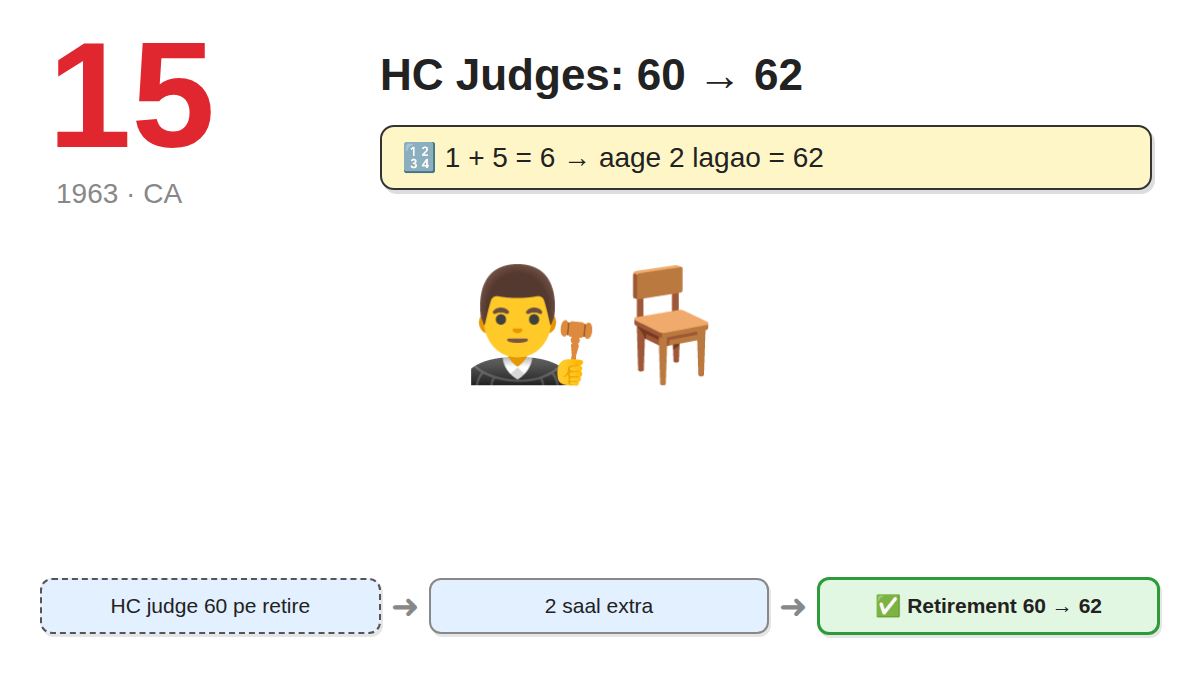
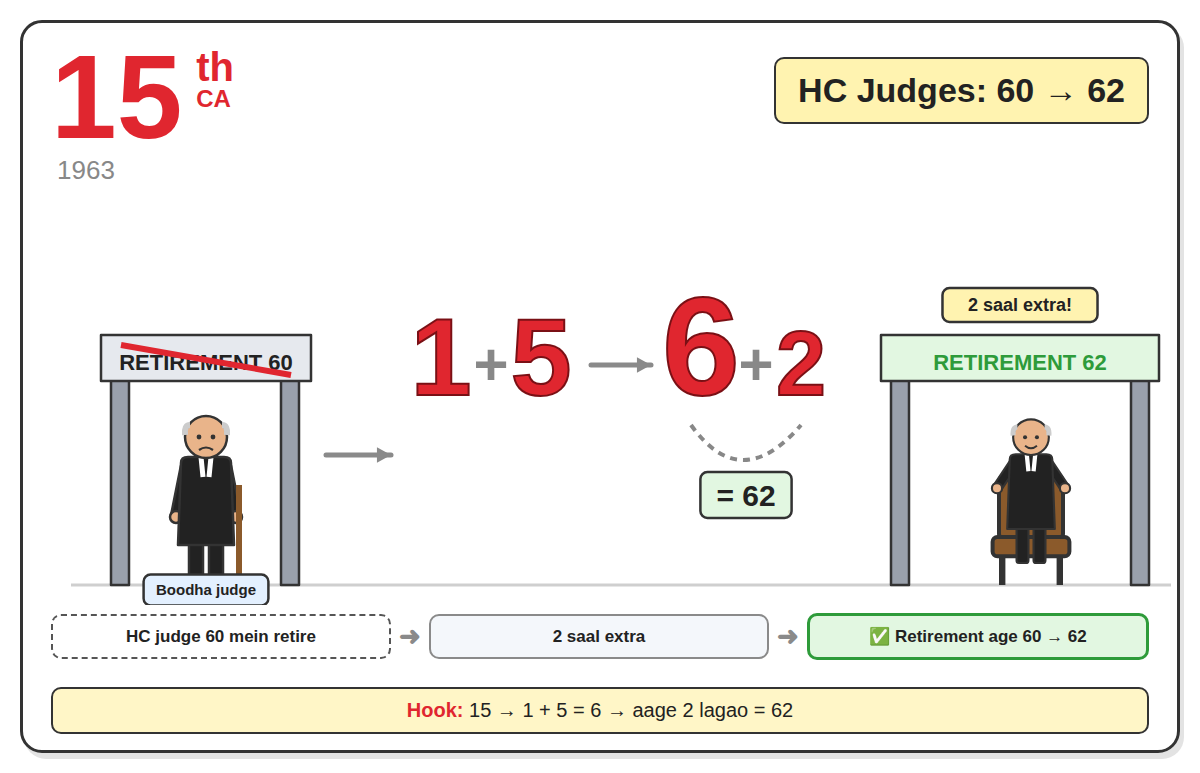
Redraw Part 1 amendment cards as illustrated scenes
Each card now has a hand-drawn flat-vector scene, red number with
ordinal, title tag, full chain and hook strip, plus a combined
part-1-all.png overview. Generator scripts in tools/cards.

Claude-Session: https://claude.ai/code/session_019MwLUPmBiyCbm1QLTFe7kp

diff --git a/tools/cards/cards.js b/tools/cards/cards.js
@@ -1,0 +1,220 @@
+const L=require('./lib.js');const {O,T,lab,RN,arrow,person,book,vbook,shelf,calendar,lock,house,tiranga,pakflag,scissors,gavel,paper,parliament,chair,mountain,ground,heart,shield,xmark,emoji,bubble}=L;
+const C=[];
+// 1st
+C.push({n:'1',suf:'st',y:'1951',title:'9th Schedule',tc:'#D9ECFF',
+hook:'1st = pehla bachcha, 9 mahine → 9th Schedule',
+chain:['Courts land reform kanoon kaat rahe the','31A, 31B se bachao','Kanoon ki tijori = 9th Schedule','15(4) backward classes'],res:'19(1)(a) pe nayi restrictions',
+svg:`${ground()}
+${person(130,390,{judge:1,wig:1,ra:[40,-10],la:[30,10]})}
+${paper(185,215,90,110,'Land Law',15,-8)}${scissors(205,262,1,-20)}
+<path d="M275 300 l12 20 l-8 8" fill="none" stroke="#999" stroke-width="2.5" stroke-dasharray="5 4"/>
+${lab(140,170,'Court',`#E3F0FF`)}
+${arrow(310,260,390,260)}
+<path d="M430 330 Q560 420 690 330" fill="#F7D9A8" ${O}/><line x1="440" y1="390" x2="460" y2="345" stroke="#8B5A2B" stroke-width="6"/><line x1="680" y1="390" x2="660" y2="345" stroke="#8B5A2B" stroke-width="6"/>
+<rect x="470" y="300" width="180" height="40" rx="18" fill="#BFE3F7" ${O}/>
+${RN(560,325,'1',200)}<circle cx="585" cy="150" r="26" fill="#F2C29B" ${O}/><circle cx="577" cy="148" r="3" fill="#333"/><circle cx="593" cy="148" r="3" fill="#333"/><path d="M578 160 q7 6 14 0" stroke="#333" stroke-width="2.5" fill="none"/><path d="M575 126 q10 -10 18 0" stroke="#3b2a20" stroke-width="3" fill="none"/>
+${lab(560,385,'Naya bachcha','#E2F7E1',17)}
+<line x1="560" y1="20" x2="660" y2="40" stroke="#999" stroke-width="2"/>${calendar(620,30,90,90,'MAHINE','9',46)}
+${arrow(720,260,790,260)}
+<rect x="810" y="140" width="190" height="230" rx="10" fill="#C9CED6" ${O}/><rect x="826" y="156" width="158" height="198" rx="6" fill="#E6E9EE" ${O}/>
+${paper(838,200,60,80,'Land Laws',11,-4)}${paper(902,195,60,80,'Land Laws',11,5)}
+<path d="M1000 160 L1080 130 L1080 380 L1000 370Z" fill="#B7BDC7" ${O}/><circle cx="1050" cy="250" r="20" fill="#9aa1ac" ${O}/><line x1="1050" y1="232" x2="1050" y2="268" stroke="#333" stroke-width="3"/>
+${lab(905,120,'9th Schedule','#FFF3B0',22)}
+<rect x="840" y="300" width="22" height="40" rx="10" fill="#777" ${O}/><line x1="851" y1="340" x2="851" y2="365" stroke="#333" stroke-width="3"/>${lock(895,345,0.5)}${lab(930,300,'19(1)(a)','#FDE2E4',14)}`});
+// 7th
+C.push({n:'7',suf:'th',y:'1956',title:'States Reorganisation',tc:'#FDE2E4',
+hook:'7 = saat phere → States ki nayi shaadi, bhasha ke rishte se',
+chain:['Bhasha andolan','States linguistic basis pe','Part A/B/C/D khatam → 14 States + 6 UTs','Common HC (231), 258A'],res:'350A mother tongue padhai, 350B special officer',
+svg:`${ground()}
+${[0,1,2,3,4,5,6].map(i=>{const a=i/7*Math.PI*2-Math.PI/2;return `<circle cx="${480+Math.cos(a)*190}" cy="${225+Math.sin(a)*150}" r="16" fill="#FDE2E4" stroke="#E0262F" stroke-width="3"/>${T(480+Math.cos(a)*190,232+Math.sin(a)*150,String(i+1),{fs:16,fill:'#E0262F'})}`}).join('')}
+<ellipse cx="480" cy="225" rx="190" ry="150" fill="none" stroke="#E0262F" stroke-width="2.5" stroke-dasharray="8 8"/>
+<path d="M330 120 L630 120 L600 80 L360 80Z" fill="#F7A54A" ${O}/>${[340,410,550,620].map(x=>`<rect x="${x-6}" y="120" width="12" height="250" fill="#F5C518" ${O}/>`).join('')}
+${[[400,300,'#9CC5A1','अ'],[465,300,'#F7D9A8','ગ'],[505,300,'#BFE3F7','த'],[570,300,'#D7C6F2','ಕ']].map(([x,y,f,c])=>`<path d="M${x-26} ${y+60} q-6 -50 10 -70 q20 -12 30 4 q14 30 4 66z" fill="${f}" ${O}/>${L.bubble(x,y-60,c)}`).join('')}
+<line x1="465" y1="330" x2="505" y2="330" stroke="#E0262F" stroke-width="4"/>
+${RN(480,110,'7',80)}
+${lab(480,40,'Saat phere: bhasha ka rishta','#FFF3B0',18)}
+${[['A',60],['B',120],['C',75],['D',135]].map(([t,x],i)=>`<g transform="rotate(${[-15,10,-25,20][i]} ${x} ${i<2?345:290})"><rect x="${x-25}" y="${(i<2?345:290)-25}" width="50" height="50" fill="#D8C3A5" ${O}/>${T(x,(i<2?345:290)+9,t,{fs:24})}<path d="M${x-25} ${(i<2?345:290)-5} l14 6 l10 -10 l12 8" stroke="#333" stroke-width="2" fill="none"/></g>`).join('')}
+${lab(100,230,'Part A/B/C/D khatam','#E3F0FF',16)}
+${xmark(100,300,1.2)}
+<path d="M760 360 q-20 -80 30 -90 q40 0 30 90z" fill="#9CC5A1" ${O}/>${T(790,330,'State 1',{fs:14})}
+<path d="M1050 360 q-20 -90 30 -90 q40 0 20 90z" fill="#F7D9A8" ${O}/>${T(1075,330,'State 2',{fs:14})}
+<path d="M820 300 Q920 220 1040 300" fill="none" stroke="#8B5A2B" stroke-width="8"/>
+<rect x="880" y="200" width="90" height="70" fill="#E3F0FF" ${O}/><path d="M870 200 L925 165 L980 200Z" fill="#B7BDC7" ${O}/>${[890,910,930,950].map(x=>`<rect x="${x}" y="215" width="8" height="45" fill="#fff" ${O}/>`).join('')}
+${lab(925,140,'Common HC (231)','#E2F7E1',16)}
+${lab(925,385,'14 States + 6 UTs','#FFF3B0',17)}
+${lab(925,60,'350A / 350B','#FDE2E4',17)}`});
+// 9th
+C.push({n:'9',suf:'th',y:'1960',title:'Berubari',tc:'#E2F7E1',
+hook:'9 = "nau-do-gyarah" → Berubari chala gaya',
+chain:['Berubari case','SC: zameen dene ke liye CA chahiye','9th CA'],res:'Berubari Pakistan ko transfer',
+svg:`${ground(380)}
+<path d="M80 380 L1080 380" stroke="#C9B48A" stroke-width="18"/>${[150,300,450,600,750].map(x=>`<path d="M${x} 400 q20 -12 40 0" stroke="#bbb" stroke-width="3" fill="none"/>`).join('')}
+${RN(250,330,'9',170)}<line x1="235" y1="335" x2="215" y2="378" stroke="#7a1015" stroke-width="8"/><line x1="265" y1="335" x2="290" y2="376" stroke="#7a1015" stroke-width="8"/>
+${[[175,240],[165,270],[170,300]].map(([x,y])=>`<line x1="${x}" y1="${y}" x2="${x-50}" y2="${y}" stroke="#bbb" stroke-width="4"/>`).join('')}
+<path d="M430 300 q-20 -60 40 -80 q70 -20 110 10 q40 40 0 70 q-70 30 -150 0z" fill="#B9D88A" ${O}/><path d="M460 270 q30 -20 60 -10 M490 300 q20 -10 50 0" stroke="#7da35a" stroke-width="3" fill="none"/>
+<line x1="480" y1="305" x2="455" y2="378" stroke="#333" stroke-width="7"/><line x1="540" y1="305" x2="575" y2="374" stroke="#333" stroke-width="7"/>
+<circle cx="555" cy="240" r="4" fill="#333"/><circle cx="572" cy="243" r="4" fill="#333"/>
+${lab(505,200,'Berubari','#FFF3B0',20)}
+${[[400,250],[390,280]].map(([x,y])=>`<line x1="${x}" y1="${y}" x2="${x-60}" y2="${y}" stroke="#bbb" stroke-width="4"/>`).join('')}
+${T(250,120,'nau-do-gyarah!',{fs:24,fill:'#E0262F'})}
+${arrow(640,300,800,300)}
+<rect x="830" y="190" width="24" height="190" fill="#999" ${O}/><rect x="1016" y="190" width="24" height="190" fill="#999" ${O}/><rect x="820" y="170" width="230" height="30" fill="#bbb" ${O}/>${T(935,192,'BORDER',{fs:18})}
+${[0,1,2,3,4,5].map(i=>`<line x1="${870+i*28}" y1="200" x2="${870+i*28}" y2="380" stroke="#aaa" stroke-width="4"/>`).join('')}
+${pakflag(1060,180,1)}${lab(935,400-14,'Pakistan (East)','#E2F7E1',16)}
+${person(700,170,{judge:1,wig:1,s:0.75,ra:[30,-50],la:[-30,-50]})}
+<rect x="610" y="20" width="180" height="56" rx="6" fill="#fff" ${O}/>${T(700,57,'CA needed',{fs:26,fill:'#E0262F'})}${lab(700,180,'Supreme Court','#E3F0FF',15)}`});
+// 15th
+C.push({n:'15',suf:'th',y:'1963',title:'HC Judges: 60 → 62',tc:'#FFF3B0',
+hook:'15 → 1 + 5 = 6 → aage 2 lagao = 62',
+chain:['HC judge 60 mein retire','2 saal extra'],res:'Retirement age 60 → 62',
+svg:`${ground()}
+<rect x="60" y="180" width="18" height="210" fill="#9aa1ac" ${O}/><rect x="230" y="180" width="18" height="210" fill="#9aa1ac" ${O}/><rect x="50" y="140" width="210" height="46" fill="#E6E9EE" ${O}/>${T(155,175,'RETIREMENT  60',{fs:22})}
+<line x1="70" y1="150" x2="240" y2="180" stroke="#E0262F" stroke-width="6"/>
+${person(155,390,{judge:1,bald:1,happy:false,la:[-10,50],ra:[10,50]})}<rect x="185" y="290" width="6" height="100" fill="#8B5A2B"/>${lab(155,415-20,'Boodha judge','#E3F0FF',15)}
+${arrow(275,260,340,260)}
+${RN(390,200,'1',110)}${T(440,190,'+',{fs:60,fill:'#888'})}${RN(490,200,'5',110)}
+${arrow(540,170,600,170)}${RN(650,200,'6',140)}${T(705,190,'+',{fs:60,fill:'#888'})}${RN(750,200,'2',90)}
+<path d="M640 230 Q690 300 750 230" fill="none" stroke="#888" stroke-width="4" stroke-dasharray="7 6"/>${lab(695,300,'= 62','#E2F7E1',30)}
+<rect x="840" y="180" width="18" height="210" fill="#9aa1ac" ${O}/><rect x="1080" y="180" width="18" height="210" fill="#9aa1ac" ${O}/><rect x="830" y="140" width="278" height="46" fill="#E2F7E1" ${O}/>${T(969,175,'RETIREMENT  62',{fs:22,fill:'#2E9B3A'})}
+${chair(980,390,1.6,'#8B5A2B')}${person(980,368,{judge:1,bald:1,s:0.85,la:[-20,30],ra:[20,30]})}
+${lab(969,110,'2 saal extra!','#FFF3B0',18)}`});
+// 21st
+C.push({n:'21',suf:'st',y:'1967',title:'Sindhi',tc:'#E3F0FF',
+hook:'21 ka 2 dikhta hai S jaisa → Sindhi',
+chain:['Sindhi bhasha list se bahar'],res:'8th Schedule mein (15th bhasha)',
+svg:`${ground()}
+<path d="M150 120 C150 40 300 40 300 120 C300 190 140 250 140 330 L310 330" fill="none" stroke="#7a1015" stroke-width="44" stroke-linecap="round" stroke-linejoin="round"/>
+<path d="M150 120 C150 40 300 40 300 120 C300 190 140 250 140 330 L310 330" fill="none" stroke="#E0262F" stroke-width="38" stroke-linecap="round" stroke-linejoin="round"/>
+${[[200,70],[290,150],[200,250],[230,330]].map(([x,y])=>`<circle cx="${x}" cy="${y}" r="7" fill="#F49AA0"/>`).join('')}
+<circle cx="320" cy="320" r="5" fill="#fff"/><circle cx="321" cy="320" r="2.5" fill="#000"/><path d="M332 335 l18 4 l6 -6 m-6 6 l6 6" stroke="#E0262F" stroke-width="3" fill="none"/>
+${RN(380,140,'1',150)}${lab(230,385,'2 = S = Sindhi','#FFF3B0',20)}
+<path d="M430 80 C500 140 420 220 500 280 S 480 360 560 400" fill="none" stroke="#7FB3E0" stroke-width="40" stroke-linecap="round"/><path d="M430 80 C500 140 420 220 500 280 S 480 360 560 400" fill="none" stroke="#BFE3F7" stroke-width="28" stroke-linecap="round"/>${lab(560,120,'Sindhu nadi','#E3F0FF',16)}
+${shelf(660,90,420,280,'8th Schedule')}<line x1="670" y1="230" x2="1070" y2="230" stroke="#B5793F" stroke-width="8"/>
+${['#E07B7B','#7FB3E0','#9CC5A1','#F5C518','#D7C6F2','#F7A54A','#7FB3E0','#E07B7B','#9CC5A1','#F5C518','#D7C6F2','#F7A54A','#E07B7B','#7FB3E0'].map((f,i)=>i<7?vbook(680+i*36,120,30,105,f):vbook(680+(i-7)*36,250,30,108,f)).join('')}
+${book(950,255,40,120,'#E0262F','',14,-25)}${T(972,320,'Sindhi',{fs:16,fill:'#fff',rot:-115})}
+${arrow(1060,190,1000,240)}${lab(1000,400-10,'15th bhasha','#E2F7E1',17)}`});
+// 24th
+C.push({n:'24',suf:'th',y:'1971',title:'FRs bhi amend ho sakte',tc:'#FFF3B0',
+hook:'24 = 24×7 power → Parliament kabhi bhi, kuch bhi amend kar sakti hai. 1971 tikdi: 24 Power → 25 Property → 26 Purse',
+chain:['Golaknath 1967: FRs amend nahi ho sakte','24th: any part incl. FRs'],res:'President ko assent dena hi padega',
+svg:`${ground()}
+${parliament(330,390,1.5)}
+<rect x="230" y="70" width="200" height="80" rx="10" fill="#222" ${O}/>${T(330,130,'24×7',{fs:52,fill:'#FF3B3B',extra:'font-family="Courier New, monospace"'})}<line x1="330" y1="150" x2="330" y2="185" stroke="#555" stroke-width="5"/>
+${lab(330,40,'Kabhi bhi, kuch bhi amend','#FFF3B0',17)}
+${book(560,250,170,120,'#7FB3E0','',14,0)}${T(650,295,'Fundamental',{fs:18})}${T(650,320,'Rights',{fs:18})}
+<g transform="rotate(35 610 230)"><rect x="595" y="150" width="18" height="100" rx="4" fill="#E0262F" ${O}/><path d="M595 250 L604 275 L613 250Z" fill="#333"/></g>
+<path d="M545 220 Q520 220 510 250" fill="none" stroke="#333" stroke-width="3" stroke-dasharray="4 4"/>
+${person(870,390,{shirt:'#F7F2E8',la:[-30,-10],ra:[30,30]})}${lab(870,210,'President','#E3F0FF',16)}
+<rect x="780" y="290" width="40" height="22" fill="#8B5A2B" ${O}/><rect x="790" y="262" width="20" height="30" fill="#8B5A2B" ${O}/>
+<rect x="740" y="325" width="110" height="50" fill="#fff" ${O}/>${T(795,358,'ASSENT ✓',{fs:20,fill:'#2E9B3A'})}
+${gavel(1030,375,0.8,80,'#bbb')}${lab(1030,310,'Golaknath','#eee',16)}<path d="M1000 260 l8 -16 M1030 255 l0 -18 M1060 260 l-8 -16" stroke="#aaa" stroke-width="3"/>
+${lab(330,385-0,'Parliament','#E2F7E1',16)}`});
+// 25th
+C.push({n:'25',suf:'th',y:'1971',title:'Property pe kainchi, Art 31C',tc:'#E2F7E1',
+hook:'1971 tikdi ka 2nd P = Property',
+chain:['Property compensation pe case','Right to property curtailed'],res:'Art 31C: DPSP laws ko FR challenge se bachao',
+svg:`${ground()}
+${RN(130,260,'25',150)}
+${house(400,390,2.2)}
+<path d="M600 390 q-60 0 -55 -60 q5 -60 75 -60 q70 0 75 60 q5 60 -55 60z" fill="#C9A15E" ${O}/><path d="M590 272 q30 -20 60 0" fill="none" stroke="#333" stroke-width="5"/>${T(620,345,'₹',{fs:56,fill:'#6b4b1d'})}${lab(620,240,'Compensation','#FFF3B0',15)}
+${scissors(700,250,2.2,160)}
+${[[690,370],[700,380]].map(([x,y])=>`<circle cx="${x}" cy="${y}" r="9" fill="#F5C518" ${O}/>`).join('')}
+${shield(950,190,2,'#7FB3E0')}${T(950,145,'31C',{fs:44,fill:'#1f4e79'})}${book(905,175,90,70,'#F5C518','DPSP',20)}
+${lab(950,330,'DPSP laws safe','#E2F7E1',17)}
+${arrow(470,140,860,170)}${lab(660,110,'FR challenge ✗','#FDE2E4',16)}`});
+// 26th
+C.push({n:'26',suf:'th',y:'1971',title:'Privy purses khatam',tc:'#FDE2E4',
+hook:'26 = 26 January (Republic) → Republic mein raja ka khaas paisa kyun? → Purse khatam',
+chain:['Rajaon ko privy purse','Republic mein sab barabar'],res:'Privy purses abolished',
+svg:`${ground()}
+${calendar(70,90,200,200,'JANUARY','26',100)}${lab(170,320,'Republic Day','#E3F0FF',17)}
+${tiranga(330,390,2.2)}
+${person(620,390,{shirt:'#7B4FA6',crown:1,s:1.3,happy:false,la:[60,-30],ra:[80,-20]})}
+<g transform="rotate(170 760 250)"><path d="M720 280 q-50 0 -45 -50 q5 -50 65 -50 q60 0 65 50 q5 50 -45 50z" fill="#C9A15E" ${O}/><path d="M715 182 q25 -16 50 0" fill="none" stroke="#333" stroke-width="5"/></g>
+${xmark(760,240,1.5)}
+${[0,1,2].map(i=>`<line x1="${730+i*30}" y1="300" x2="${730+i*30}" y2="330" stroke="#ccc" stroke-width="3" stroke-dasharray="4 5"/>`).join('')}${T(760,365,'kuch nahi gira…',{fs:18,fill:'#888',w:400})}
+${lab(620,90,'Raja','#FFF3B0',18)}${lab(950,170,'Privy Purse','#FDE2E4',20)}${lab(950,240,'ABOLISHED','#E2F7E1',22)}`});
+// 35/36
+C.push({n:'35/36',suf:'th',y:'1974 / 75',title:'Sikkim',tc:'#E3F0FF',
+hook:'35 odd = aadha (associate State); 36 even = poora State (22nd)',
+chain:['Sikkim judna chahta tha','35th: associate State'],res:'36th: Sikkim 22nd full State',
+svg:`${mountain(300,390,520,300,'#B6D7A8')}${mountain(820,390,560,330,'#9CC5A1')}${mountain(560,390,300,170,'#CFE5C3')}
+${house(300,200,1.2,'#F7D9A8','#C0504D',true)}${RN(300,250,'35',70)}${lab(300,300,'Associate State (aadha)','#FFF3B0',17)}
+${house(820,170,1.3)}${tiranga(870,48,0.8)}<rect x="790" y="180" width="60" height="34" rx="4" fill="#fff" ${O}/>${T(820,206,'22',{fs:26})}${RN(820,280,'36',70)}${lab(820,330,'Full State No. 22','#E2F7E1',17)}
+${arrow(420,150,690,120)}${lab(560,90,'Sikkim','#E3F0FF',20)}`});
+// 39th
+C.push({n:'39',suf:'th',y:'1975',title:'Election disputes courts se bahar',tc:'#FDE2E4',
+hook:'39 → 3 + 9 = 12 → 12 June 1975: Allahabad HC ne Indira ka election radd kiya',
+chain:['12 June 1975: Allahabad HC','PM ka election radd'],res:'President, VP, PM, Speaker ke election disputes courts se bahar',
+svg:`${ground()}
+${calendar(60,90,220,230,'JUNE 1975','12',96)}<ellipse cx="170" cy="250" rx="70" ry="55" fill="none" stroke="#E0262F" stroke-width="5"/>${RN(170,355,'3 + 9 = 12',44)}
+${lab(170,60,'Allahabad HC','#E3F0FF',17)}
+<rect x="380" y="290" width="140" height="100" fill="#E6E9EE" ${O}/><rect x="420" y="282" width="60" height="10" fill="#333"/>${paper(425,240,50,55,'',12,8)}${lab(450,345,'Ballot','#FFF3B0',16)}
+${gavel(470,130,1.2,-35)}${T(380,110,'radd!',{fs:22,fill:'#E0262F'})}
+<path d="M640 390 L640 230 Q640 90 830 90 Q1020 90 1020 230 L1020 390" fill="#DDEFFC" fill-opacity="0.55" stroke="#7FB3E0" stroke-width="5"/>
+<path d="M680 220 Q700 140 780 120" stroke="#fff" stroke-width="8" fill="none" stroke-linecap="round"/>
+${chair(690,390,1.1,'#C0504D','')}${chair(780,390,1.1,'#7FB3E0','')}${chair(870,390,1.1,'#9CC5A1','')}${chair(960,390,1.1,'#F7A54A','')}
+${[['President',690],['VP',780],['PM',870],['Speaker',960]].map(([t,x])=>lab(x,250,t,'#fff',14)).join('')}
+${gavel(830,40,0.9,-80)}<path d="M790 85 l-10 -10 M830 80 l0 -14 M870 85 l10 -10" stroke="#E0262F" stroke-width="4"/>${lab(1060,60,'Court ✗','#FDE2E4',16)}`});
+// 42nd
+C.push({n:'42',suf:'nd',y:'1976',title:'Mini-Constitution',tc:'#FFF3B0',
+hook:'42 = "Char-Do" → chhota (mini) Samvidhan, emergency mein sab badla',
+chain:['Emergency','Preamble: Socialist, Secular, Integrity','Fundamental Duties (IVA)','5 subjects → Concurrent','DPSP 39A, 43A, 48A; 323A/B; 131A, 139A'],res:'CoM advice President pe binding',
+svg:`<circle cx="1080" cy="50" r="34" fill="#FDE2E4" ${O}/><path d="M1060 50 a20 20 0 0 1 40 0z" fill="#E0262F" ${O}/>${[[-50,-10],[50,-10],[-40,-45],[40,-45]].map(([dx,dy])=>`<line x1="1080" y1="40" x2="${1080+dx*0.7}" y2="${40+dy*0.7}" stroke="#E0262F" stroke-width="3" opacity="0.6"/>`).join('')}${T(1080,105,'Emergency',{fs:15,fill:'#E0262F'})}
+<ellipse cx="470" cy="210" rx="380" ry="165" fill="none" stroke="#bbb" stroke-width="3" stroke-dasharray="10 8"/>
+${book(400,140,140,150,'#C0504D','',14)}${RN(475,240,'42',62)}${T(475,175,'Samvidhan',{fs:16,fill:'#fff'})}${T(475,280,'mini',{fs:15,fill:'#fff'})}
+${paper(120,60,120,90,'Preamble',15,-5,'#FFF8E1')}${lab(110,170,'Socialist','#FDE2E4',13)}${lab(185,195,'Secular','#E3F0FF',13)}${lab(255,170,'Integrity','#E2F7E1',13)}
+<rect x="330" y="20" width="110" height="100" rx="6" fill="#fff" ${O}/>${T(385,45,'Duties IVA',{fs:15})}${[60,82,104].map(y=>`<rect x="345" y="${y-12}" width="14" height="14" fill="#E2F7E1" ${O}/><path d="M347 ${y-5} l4 5 l8 -10" stroke="#2E9B3A" stroke-width="3" fill="none"/><line x1="368" y1="${y-5}" x2="425" y2="${y-5}" stroke="#bbb" stroke-width="3"/>`).join('')}
+${emoji(600,95,'🎒',54)}${T(600,120,'Education',{fs:14})}
+${emoji(760,140,'🌳',58)}${T(760,165,'Forests',{fs:14})}
+${emoji(820,265,'⚖',54)}${T(820,290,'Weights',{fs:14})}
+${emoji(700,355,'🦁',50)}${emoji(760,350,'🐦',40)}${T(730,385,'Wild animals & birds',{fs:14})}
+${gavel(540,350,0.6,-30)}${T(540,392,'Justice',{fs:14})}
+${lab(660,210,'→ Concurrent List','#FFF3B0',15)}
+${lab(140,260,'DPSP 39A 43A 48A','#E3F0FF',14)}${lab(140,300,'Tribunals 323A/B','#E2F7E1',14)}${lab(140,340,'131A, 139A','#FDE2E4',14)}
+${person(1010,390,{shirt:'#F7F2E8',s:1.1})}<rect x="985" y="226" width="50" height="16" rx="3" fill="#F5C518" ${O} transform="rotate(-8 1010 234)"/>${lab(1010,170,'CoM advice = binding','#FFF3B0',14)}${T(1080,300,'President',{fs:15,fill:'#555'})}`});
+// 43rd
+C.push({n:'43',suf:'rd',y:'1977',title:'42nd ka undo',tc:'#E2F7E1',
+hook:'43 = 42 + 1 → ek kadam peeche (undo)',
+chain:['42nd ki zyaadatiyan','Janata sarkar ne undo kiya'],res:'131A repealed',
+svg:`${ground()}
+${[['Ctrl',90,150],['Z',300,120]].map(([t,x,w])=>`<rect x="${x}" y="200" width="${w+80}" height="130" rx="18" fill="#9aa1ac" ${O}/><rect x="${x+12}" y="208" width="${w+56}" height="100" rx="14" fill="#E6E9EE" ${O}/>${T(x+(w+80)/2,272,t,{fs:48})}`).join('')}${T(285,280,'+',{fs:50,fill:'#888'})}
+${RN(390,175,'43',70)}${lab(240,110,'Ctrl + Z = UNDO','#FFF3B0',22)}
+<path d="M360 360 q-120 40 -260 0" stroke="#333" stroke-width="3" fill="none" stroke-dasharray="1 0"/><path d="M470 270 a60 60 0 1 0 -10 70" fill="none" stroke="#2E9B3A" stroke-width="6"/><polygon points="455,265 485,262 470,290" fill="#2E9B3A"/>
+${person(560,390,{shirt:'#F7A54A',la:[-60,-20]})}${lab(560,180,'Janata sarkar','#E3F0FF',15)}
+${book(760,220,180,160,'#C0504D','',14)}${RN(850,320,'42',70)}
+${paper(800,120,70,80,'',12,-20)}${paper(900,70,70,80,'131A',18,15)}${xmark(935,110,1.3)}${paper(980,160,70,80,'',12,30)}
+${[[835,200,800,160],[945,200,930,150],[970,240,1000,210]].map(([a,b,c,d])=>`<path d="M${a} ${b} Q${(a+c)/2+20} ${(b+d)/2} ${c} ${d}" stroke="#bbb" stroke-width="3" fill="none" stroke-dasharray="5 5"/>`).join('')}
+${lab(1060,330,'131A repealed','#E2F7E1',16)}`});
+// 44th
+C.push({n:'44',suf:'th',y:'1978',title:'Emergency pe taala',tc:'#FDE2E4',
+hook:'44 = 4-4 → double taala: emergency pe + property FR se bahar',
+chain:['Emergency ka galat use','"Internal disturbance" → "armed rebellion"','Sirf Cabinet ki written advice','Art 20 & 21 kabhi suspend nahi','President advice ek baar wapas bhej sakta'],res:'Property FR se bahar → Art 300A',
+svg:`${ground()}
+<rect x="80" y="230" width="220" height="160" rx="10" fill="#E6E9EE" ${O}/><rect x="180" y="100" width="20" height="140" fill="#9aa1ac" ${O} transform="rotate(-20 190 240)"/><circle cx="150" cy="105" r="22" fill="#E0262F" ${O}/>${lab(190,350,'EMERGENCY','#FDE2E4',18)}
+${lock(140,290,1.1,'4')}${lock(245,290,1.1,'4')}
+<path d="M320 120 h150 v90 h-150z" fill="#FFF8E1" ${O}/><path d="M320 120 l75 50 l75 -50" fill="none" ${O}/>${T(395,235,'Cabinet written advice',{fs:15})}
+<g transform="translate(470,170) rotate(-30)"><circle cx="0" cy="0" r="14" fill="#F5C518" ${O}/><rect x="12" y="-4" width="40" height="8" fill="#F5C518" ${O}/></g>
+${lab(395,60,'"Armed rebellion"','#FFF3B0',16)}${T(395,95,'internal disturbance',{fs:14,fill:'#999',w:400})}<line x1="320" y1="90" x2="470" y2="90" stroke="#E0262F" stroke-width="3"/>
+${shield(600,300,1.6,'#7FB3E0')}${heart(560,250,1.4,'20')}${heart(640,250,1.4,'21')}${lab(600,370,'Kabhi suspend nahi','#E2F7E1',14)}
+<rect x="730" y="190" width="140" height="200" fill="#E3F0FF" ${O}/><path d="M720 190 L800 140 L880 190Z" fill="#B7BDC7" ${O}/>${T(800,240,'FR',{fs:36})}${[750,790,830].map(x=>`<rect x="${x}" y="270" width="20" height="30" fill="#fff" ${O}/>`).join('')}
+${arrow(880,330,940,330)}
+<rect x="950" y="370" width="170" height="20" fill="#C9B48A" ${O}/>${house(1035,370,1.1)}<line x1="1035" y1="370" x2="1035" y2="290" stroke="none"/>${lab(1035,230,'Art 300A','#FFF3B0',18)}
+${[[1015,375],[1055,375]].map(([x,y])=>`<line x1="${x}" y1="${y-6}" x2="${x-8}" y2="${y+12}" stroke="#333" stroke-width="5"/>`).join('')}
+${lab(1035,140,'Legal right','#E2F7E1',15)}`});
+// 45th
+C.push({n:'45',suf:'th',y:'1980',title:'+10 saal extension',tc:'#E3F0FF',
+hook:'45 → 4 + 5 = 9 → agla number 10 → 10 saal extension',
+chain:['Reservation ki time-limit khatam'],res:'SC/ST reservation + Anglo-Indian nomination +10 saal',
+svg:`${ground()}
+<g transform="translate(330,220)"><rect x="-110" y="-170" width="220" height="20" rx="5" fill="#8B5A2B" ${O}/><rect x="-110" y="150" width="220" height="20" rx="5" fill="#8B5A2B" ${O}/>
+<path d="M-85 -150 Q-85 -40 -10 0 Q-85 40 -85 150 L85 150 Q85 40 10 0 Q85 -40 85 -150Z" fill="#E8F4FB" ${O}/>
+<path d="M-70 -145 L70 -145 Q60 -100 10 -60 L-10 -60 Q-60 -100 -70 -145Z" fill="#F2D27A" opacity="0.25"/><path d="M-5 0 L5 0 L3 150 L-3 150Z" fill="#E9C46A"/><path d="M-80 150 Q0 80 80 150Z" fill="#E9C46A" ${O}/></g>
+${lab(330,30,'Time khatam hone wala','#FDE2E4',15)}
+<path d="M470 220 a70 70 0 1 1 -20 -120" fill="none" stroke="#2E9B3A" stroke-width="6"/><polygon points="440,90 470,100 445,120" fill="#2E9B3A"/>${lab(560,120,'Palat do!','#E2F7E1',15)}
+${RN(120,150,'4 + 5',60)}${RN(120,230,'= 9',60)}${arrow(120,260,120,300)}
+<circle cx="120" cy="345" r="45" fill="#FFF3B0" ${O}/>${RN(120,368,'10',56)}${lab(120,400-5,'+10 saal','#E2F7E1',15)}
+${chair(720,390,1.7,'#7FB3E0')}${chair(850,390,1.7,'#7FB3E0')}${lab(785,250,'SC/ST seats','#E3F0FF',18)}
+${chair(1010,390,1.7,'#F7A54A')}${lab(1010,250,'Anglo-Indian','#FFF3B0',18)}
+${T(870,140,'+10 saal',{fs:48,fill:'#2E9B3A'})}`});
+module.exports=C;

diff --git a/tools/cards/lib.js b/tools/cards/lib.js
@@ -1,0 +1,43 @@
+// SVG primitives — flat vector, dark-grey outline
+const O='stroke="#333" stroke-width="2.5" stroke-linejoin="round" stroke-linecap="round"';
+const esc=s=>String(s).replace(/&/g,'&amp;').replace(/</g,'&lt;');
+const T=(x,y,t,o={})=>`<text x="${x}" y="${y}" font-size="${o.fs||20}" font-weight="${o.w||700}" fill="${o.fill||'#222'}" text-anchor="${o.a||'middle'}" font-family="Arial, sans-serif" ${o.rot?`transform="rotate(${o.rot} ${x} ${y})"`:''} ${o.extra||''}>${esc(t)}</text>`;
+const lab=(x,y,t,fill='#FFF3B0',fs=21)=>{const w=t.length*fs*0.56+24,h=fs+16;return `<g><rect x="${x-w/2}" y="${y-h/2}" width="${w}" height="${h}" rx="7" fill="${fill}" ${O}/>${T(x,y+fs*0.35,t,{fs})}</g>`};
+const RN=(x,y,t,fs=90,o={})=>`<text x="${x}" y="${y}" font-size="${fs}" font-weight="900" fill="#E0262F" stroke="#7a1015" stroke-width="2" text-anchor="${o.a||'middle'}" font-family="Arial Black, Arial, sans-serif" ${o.rot?`transform="rotate(${o.rot} ${x} ${y})"`:''}>${esc(t)}</text>`;
+const arrow=(x1,y1,x2,y2,c='#8a8a8a',w=5)=>{const a=Math.atan2(y2-y1,x2-x1),L=16;const p1=[x2-L*Math.cos(a-0.5),y2-L*Math.sin(a-0.5)],p2=[x2-L*Math.cos(a+0.5),y2-L*Math.sin(a+0.5)];return `<line x1="${x1}" y1="${y1}" x2="${x2}" y2="${y2}" stroke="${c}" stroke-width="${w}" stroke-linecap="round"/><polygon points="${x2},${y2} ${p1} ${p2}" fill="${c}"/>`};
+const face=(sk,happy=true,hair='#3b2a20',bald=false)=>`<circle cx="0" cy="-148" r="21" fill="${sk}" ${O}/>${bald?`<path d="M-21 -150 Q-22 -160 -16 -160 M21 -150 Q22 -160 16 -160" stroke="#ccc" stroke-width="6" fill="none"/>`:`<path d="M-21 -150 Q-20 -172 0 -171 Q20 -172 21 -150 Q12 -162 -21 -150Z" fill="${hair}" ${O}/>`}<circle cx="-7" cy="-148" r="2.4" fill="#333"/><circle cx="7" cy="-148" r="2.4" fill="#333"/><path d="${happy?'M-7 -138 Q0 -132 7 -138':'M-7 -135 Q0 -140 7 -135'}" fill="none" stroke="#333" stroke-width="2.2"/>`;
+// person: feet at (x,y); la/ra = [dx,dy] hand target from shoulder
+function person(x,y,o={}){const s=o.s||1,sk=o.skin||'#E9B48A',sh=o.shirt||'#5B9BD5',pa=o.pants||'#4a4a5a';
+ const la=o.la||[-12,55],ra=o.ra||[12,55];const judge=o.judge;const body=judge?'#222':sh;
+ return `<g transform="translate(${x},${y}) scale(${o.flip?-s:s},${s})">
+ <rect x="-17" y="-64" width="14" height="64" rx="3" fill="${judge?'#222':pa}" ${O}/><rect x="3" y="-64" width="14" height="64" rx="3" fill="${judge?'#222':pa}" ${O}/>
+ <line x1="-20" y1="-118" x2="${-20+la[0]}" y2="${-118+la[1]}" stroke="#333" stroke-width="13" stroke-linecap="round"/><line x1="-20" y1="-118" x2="${-20+la[0]}" y2="${-118+la[1]}" stroke="${body}" stroke-width="8" stroke-linecap="round"/>
+ <line x1="20" y1="-118" x2="${20+ra[0]}" y2="${-118+ra[1]}" stroke="#333" stroke-width="13" stroke-linecap="round"/><line x1="20" y1="-118" x2="${20+ra[0]}" y2="${-118+ra[1]}" stroke="${body}" stroke-width="8" stroke-linecap="round"/>
+ <circle cx="${-20+la[0]}" cy="${-118+la[1]}" r="6" fill="${sk}" ${O}/><circle cx="${20+ra[0]}" cy="${-118+ra[1]}" r="6" fill="${sk}" ${O}/>
+ <path d="M-25 -122 Q-25 -128 -18 -128 L18 -128 Q25 -128 25 -122 L${judge?28:24} ${judge?-40:-60} L${judge?-28:-24} ${judge?-40:-60}Z" fill="${body}" ${O}/>
+ ${judge?`<path d="M-5 -128 L-3 -108 M5 -128 L3 -108" stroke="#fff" stroke-width="5"/>`:''}
+ ${face(sk,o.happy!==false,o.hair||'#3b2a20',o.bald)}
+ ${o.crown?`<path d="M-20 -166 L-20 -188 L-10 -176 L0 -192 L10 -176 L20 -188 L20 -166Z" fill="#F5C518" ${O}/>`:''}
+ ${o.wig?`<path d="M-24 -150 Q-26 -175 0 -174 Q26 -175 24 -150 L24 -130 L18 -132 L18 -150 L-18 -150 L-18 -132 L-24 -130Z" fill="#eee" ${O}/>`:''}
+ </g>`}
+const book=(x,y,w,h,fill,t,fs=14,rot=0)=>`<g transform="rotate(${rot} ${x+w/2} ${y+h/2})"><rect x="${x}" y="${y}" width="${w}" height="${h}" rx="3" fill="${fill}" ${O}/><rect x="${x+4}" y="${y}" width="5" height="${h}" fill="#0002"/>${t?T(x+w/2+3,y+h/2+fs*0.35,t,{fs,fill:'#222'}):''}</g>`;
+const vbook=(x,y,w,h,fill,t,fs=13)=>`<rect x="${x}" y="${y}" width="${w}" height="${h}" rx="2" fill="${fill}" ${O}/>${t?T(x+w/2+fs*0.35,y+h/2,t,{fs,rot:-90}):''}`;
+const shelf=(x,y,w,h,title)=>`<rect x="${x}" y="${y}" width="${w}" height="${h}" rx="4" fill="#B5793F" ${O}/><rect x="${x+10}" y="${y+10}" width="${w-20}" height="${h-20}" fill="#F3E2C7" ${O}/>${title?lab(x+w/2,y-18,title,'#FFF3B0',18):''}`;
+const calendar=(x,y,w,h,top,big,fs=40)=>`<rect x="${x}" y="${y}" width="${w}" height="${h}" rx="6" fill="#fff" ${O}/><rect x="${x}" y="${y}" width="${w}" height="${h*0.28}" rx="6" fill="#E0262F" ${O}/>${T(x+w/2,y+h*0.2,top,{fs:Math.min(18,h*0.17),fill:'#fff'})}<circle cx="${x+w*0.3}" cy="${y}" r="4" fill="#666"/><circle cx="${x+w*0.7}" cy="${y}" r="4" fill="#666"/>${T(x+w/2,y+h*0.72,big,{fs})}`;
+const lock=(x,y,s=1,t='',fill='#F5C518')=>`<g transform="translate(${x},${y}) scale(${s})"><path d="M-18 -10 L-18 -30 Q-18 -50 0 -50 Q18 -50 18 -30 L18 -10" fill="none" stroke="#333" stroke-width="7"/><path d="M-18 -10 L-18 -30 Q-18 -50 0 -50 Q18 -50 18 -30 L18 -10" fill="none" stroke="#aaa" stroke-width="3"/><rect x="-28" y="-12" width="56" height="46" rx="6" fill="${fill}" ${O}/>${t?RN(0,26,t,34):'<circle cx="0" cy="8" r="5" fill="#333"/>'}</g>`;
+const house=(x,y,s=1,fill='#F7D9A8',roof='#C0504D',half=false)=>`<g transform="translate(${x},${y}) scale(${s})">${half?`<rect x="-50" y="-60" width="50" height="60" fill="${fill}" ${O}/><path d="M0 -60 L0 -20 L20 -20 L20 0 L0 0" fill="none" stroke="#999" stroke-width="2.5" stroke-dasharray="6 5"/><path d="M-62 -58 L0 -105 L0 -58Z" fill="${roof}" ${O}/><path d="M0 -105 L62 -58" stroke="#999" stroke-width="2.5" stroke-dasharray="6 5"/>${[0,1,2].map(i=>`<rect x="${-10+i*14}" y="${-12-i*4}" width="12" height="8" fill="#c96" ${O}/>`).join('')}`:`<rect x="-50" y="-60" width="100" height="60" fill="${fill}" ${O}/><path d="M-62 -58 L0 -105 L62 -58Z" fill="${roof}" ${O}/><rect x="-12" y="-36" width="24" height="36" fill="#8B5A2B" ${O}/><rect x="-40" y="-46" width="18" height="18" fill="#BFE3F7" ${O}/><rect x="22" y="-46" width="18" height="18" fill="#BFE3F7" ${O}/>`}</g>`;
+const tiranga=(x,y,s=1)=>`<g transform="translate(${x},${y}) scale(${s})"><line x1="0" y1="0" x2="0" y2="-110" stroke="#555" stroke-width="5"/><rect x="0" y="-110" width="66" height="14" fill="#FF9933" ${O}/><rect x="0" y="-96" width="66" height="14" fill="#fff" ${O}/><rect x="0" y="-82" width="66" height="14" fill="#138808" ${O}/><circle cx="33" cy="-89" r="5" fill="none" stroke="#000080" stroke-width="2"/></g>`;
+const pakflag=(x,y,s=1)=>`<g transform="translate(${x},${y}) scale(${s})"><line x1="0" y1="0" x2="0" y2="-110" stroke="#555" stroke-width="5"/><rect x="0" y="-110" width="16" height="44" fill="#fff" ${O}/><rect x="16" y="-110" width="52" height="44" fill="#01411C" ${O}/><circle cx="44" cy="-88" r="12" fill="#fff"/><circle cx="49" cy="-91" r="11" fill="#01411C"/></g>`;
+const scissors=(x,y,s=1,rot=0)=>`<g transform="translate(${x},${y}) rotate(${rot}) scale(${s})"><line x1="0" y1="0" x2="60" y2="-14" stroke="#9aa" stroke-width="7" stroke-linecap="round"/><line x1="0" y1="0" x2="60" y2="14" stroke="#bcc" stroke-width="7" stroke-linecap="round"/><circle cx="-14" cy="-12" r="11" fill="none" stroke="#E0262F" stroke-width="6"/><circle cx="-14" cy="12" r="11" fill="none" stroke="#E0262F" stroke-width="6"/><circle cx="2" cy="0" r="3" fill="#333"/></g>`;
+const gavel=(x,y,s=1,rot=0,fill='#8B5A2B')=>`<g transform="translate(${x},${y}) rotate(${rot}) scale(${s})"><rect x="-6" y="-10" width="12" height="80" rx="4" fill="${fill}" ${O}/><rect x="-34" y="-36" width="68" height="30" rx="8" fill="${fill}" ${O}/><rect x="-40" y="-38" width="8" height="34" rx="3" fill="#C8A060" ${O}/><rect x="32" y="-38" width="8" height="34" rx="3" fill="#C8A060" ${O}/></g>`;
+const paper=(x,y,w,h,t,fs=15,rot=0,fill='#fff')=>`<g transform="rotate(${rot} ${x+w/2} ${y+h/2})"><rect x="${x}" y="${y}" width="${w}" height="${h}" fill="${fill}" ${O}/>${[0.55,0.7,0.85].map(f=>`<line x1="${x+10}" y1="${y+h*f}" x2="${x+w-10}" y2="${y+h*f}" stroke="#bbb" stroke-width="2"/>`).join('')}${t?T(x+w/2,y+h*0.3+fs*0.3,t,{fs}):''}</g>`;
+const parliament=(x,y,s=1)=>`<g transform="translate(${x},${y}) scale(${s})"><ellipse cx="0" cy="-4" rx="130" ry="14" fill="#ddd" ${O}/><rect x="-125" y="-80" width="250" height="76" fill="#F4E3C3" ${O}/>${Array.from({length:11},(_,i)=>`<rect x="${-115+i*22}" y="-74" width="10" height="66" fill="#E7CFA3" ${O}/>`).join('')}<rect x="-130" y="-92" width="260" height="14" fill="#E9D3A8" ${O}/><path d="M-45 -92 Q0 -150 45 -92Z" fill="#F4E3C3" ${O}/></g>`;
+const chair=(x,y,s=1,fill='#C0504D',t='')=>`<g transform="translate(${x},${y}) scale(${s})"><rect x="-20" y="-70" width="40" height="44" rx="6" fill="${fill}" ${O}/><rect x="-24" y="-30" width="48" height="12" rx="3" fill="${fill}" ${O}/><line x1="-18" y1="-18" x2="-18" y2="0" stroke="#333" stroke-width="4"/><line x1="18" y1="-18" x2="18" y2="0" stroke="#333" stroke-width="4"/>${t?T(0,-42,t,{fs:13,fill:'#fff'}):''}</g>`;
+const mountain=(x,y,w,h,fill='#9CC5A1')=>`<path d="M${x-w/2} ${y} L${x} ${y-h} L${x+w/2} ${y}Z" fill="${fill}" ${O}/><path d="M${x-w*0.11} ${y-h*0.78} L${x} ${y-h} L${x+w*0.11} ${y-h*0.78} L${x+w*0.04} ${y-h*0.72} L${x-w*0.03} ${y-h*0.8}Z" fill="#fff" ${O}/>`;
+const ground=(y=390)=>`<line x1="20" y1="${y}" x2="1120" y2="${y}" stroke="#cfcfcf" stroke-width="3"/>`;
+const heart=(x,y,s,t)=>`<g transform="translate(${x},${y}) scale(${s})"><path d="M0 18 C-40 -8 -28 -40 0 -22 C28 -40 40 -8 0 18Z" fill="#F28B9B" ${O}/>${T(0,-6,t,{fs:18,fill:'#fff'})}</g>`;
+const shield=(x,y,s,fill='#7FB3E0')=>`<g transform="translate(${x},${y}) scale(${s})"><path d="M0 -60 L48 -44 Q48 20 0 50 Q-48 20 -48 -44Z" fill="${fill}" ${O}/></g>`;
+const xmark=(x,y,s=1)=>`<g stroke="#E0262F" stroke-width="${8*s}" stroke-linecap="round"><line x1="${x-18*s}" y1="${y-18*s}" x2="${x+18*s}" y2="${y+18*s}"/><line x1="${x+18*s}" y1="${y-18*s}" x2="${x-18*s}" y2="${y+18*s}"/></g>`;
+const emoji=(x,y,e,fs=50)=>`<text x="${x}" y="${y}" font-size="${fs}" text-anchor="middle">${e}</text>`;
+const bubble=(x,y,t)=>`<g><path d="M${x-22} ${y-20} h44 a8 8 0 0 1 8 8 v24 a8 8 0 0 1 -8 8 h-18 l-8 10 l-2 -10 h-16 a8 8 0 0 1 -8 -8 v-24 a8 8 0 0 1 8 -8z" fill="#fff" ${O}/>${T(x,y+9,t,{fs:22})}</g>`;
+module.exports={O,T,lab,RN,arrow,person,book,vbook,shelf,calendar,lock,house,tiranga,pakflag,scissors,gavel,paper,parliament,chair,mountain,ground,heart,shield,xmark,emoji,bubble,esc};

diff --git a/tools/cards/render.js b/tools/cards/render.js
@@ -1,0 +1,31 @@
+const {chromium}=require('/opt/node22/lib/node_modules/playwright');const C=require('./cards.js');const {esc}=require('./lib.js');
+const out='/home/user/claude-todo-demo/images/part-1/';
+const page=c=>`<html><head><meta charset="utf-8"><style>
+*{box-sizing:border-box}body{margin:0;width:1200px;height:900px;background:#fff;font-family:Arial,sans-serif;color:#222;padding:20px}
+.card{border:3px solid #333;border-radius:22px;padding:18px 28px 90px;position:relative;box-shadow:4px 6px 0 #e3e3e3}
+.hd{display:flex;align-items:flex-start;gap:14px;height:150px}
+.num{font-size:118px;font-weight:900;color:#E0262F;line-height:0.95;font-family:'Arial Black',Arial}
+.suf{display:flex;flex-direction:column;color:#E0262F;font-weight:900;font-size:40px;line-height:1;padding-top:6px}.suf small{font-size:24px;color:#E0262F}
+.yr{position:absolute;left:34px;top:132px;color:#888;font-size:26px}
+.ttl{margin-left:auto;margin-top:16px;padding:12px 22px;border:2.5px solid #333;border-radius:10px;font-size:34px;font-weight:800;max-width:600px;text-align:center}
+svg{display:block;margin:4px auto 0}
+.chain{display:flex;align-items:center;gap:8px;margin-top:8px}
+.b{flex:1;font-size:17px;font-weight:600;padding:10px 8px;border-radius:10px;background:#F4F7FB;border:2.5px solid #8a8a8a;text-align:center;line-height:1.25}
+.b.p{border-style:dashed;border-color:#555;background:#fff}.b.r{background:#E2F7E1;border:3px solid #2E9B3A;font-weight:800}
+.a{font-size:26px;color:#8a8a8a;font-weight:900}
+.hook{position:absolute;left:28px;right:28px;bottom:16px;background:#FFF6C7;border:2px solid #333;border-radius:10px;padding:10px 16px;font-size:20px;text-align:center}
+.hook b{color:#E0262F}
+</style></head><body><div class="card">
+<div class="hd"><div class="num">${esc(c.n)}</div><div class="suf">${c.suf}<small>CA</small></div><div class="ttl" style="background:${c.tc}">${esc(c.title)}</div></div>
+<div class="yr">${c.y}</div>
+<svg width="1140" height="410" viewBox="0 0 1140 410">${c.svg}</svg>
+<div class="chain">${c.chain.map((s,i)=>`<div class="b ${i?'':'p'}">${esc(s)}</div><span class="a">➜</span>`).join('')}<div class="b r">✅ ${esc(c.res)}</div></div>
+<div class="hook"><b>Hook:</b> ${esc(c.hook)}</div></div></body></html>`;
+(async()=>{const fs=require('fs');for(const f of fs.readdirSync(out))fs.unlinkSync(out+f);
+const b=await chromium.launch();const p=await b.newPage({viewport:{width:1200,height:900}});const files=[];
+for(const c of C){await p.setContent(page(c));await p.waitForTimeout(100);const f=`ca-${c.n.replace('/','-')}.png`;await p.screenshot({path:out+f,clip:await p.$eval(".card",e=>{const r=e.getBoundingClientRect();return {x:0,y:0,width:1200,height:r.bottom+20}})});files.push(f);}
+// overview grid
+const grid=`<html><body style="margin:0;background:#fff;width:1600px;display:grid;grid-template-columns:repeat(4,1fr);gap:12px;padding:12px;box-sizing:border-box">${files.map(f=>`<img src="file://${out}${f}" style="width:100%">`).join('')}</body></html>`;
+fs.writeFileSync('/tmp/claude-0/-home-user-claude-todo-demo/d3201023-d8ce-51dc-8cca-5b506d91d0bb/scratchpad/grid.html',grid);
+await p.setViewportSize({width:1600,height:900});await p.goto('file:///tmp/claude-0/-home-user-claude-todo-demo/d3201023-d8ce-51dc-8cca-5b506d91d0bb/scratchpad/grid.html');await p.waitForTimeout(300);
+await p.screenshot({path:out+'part-1-all.png',fullPage:true});await b.close();console.log(files.length);})();
